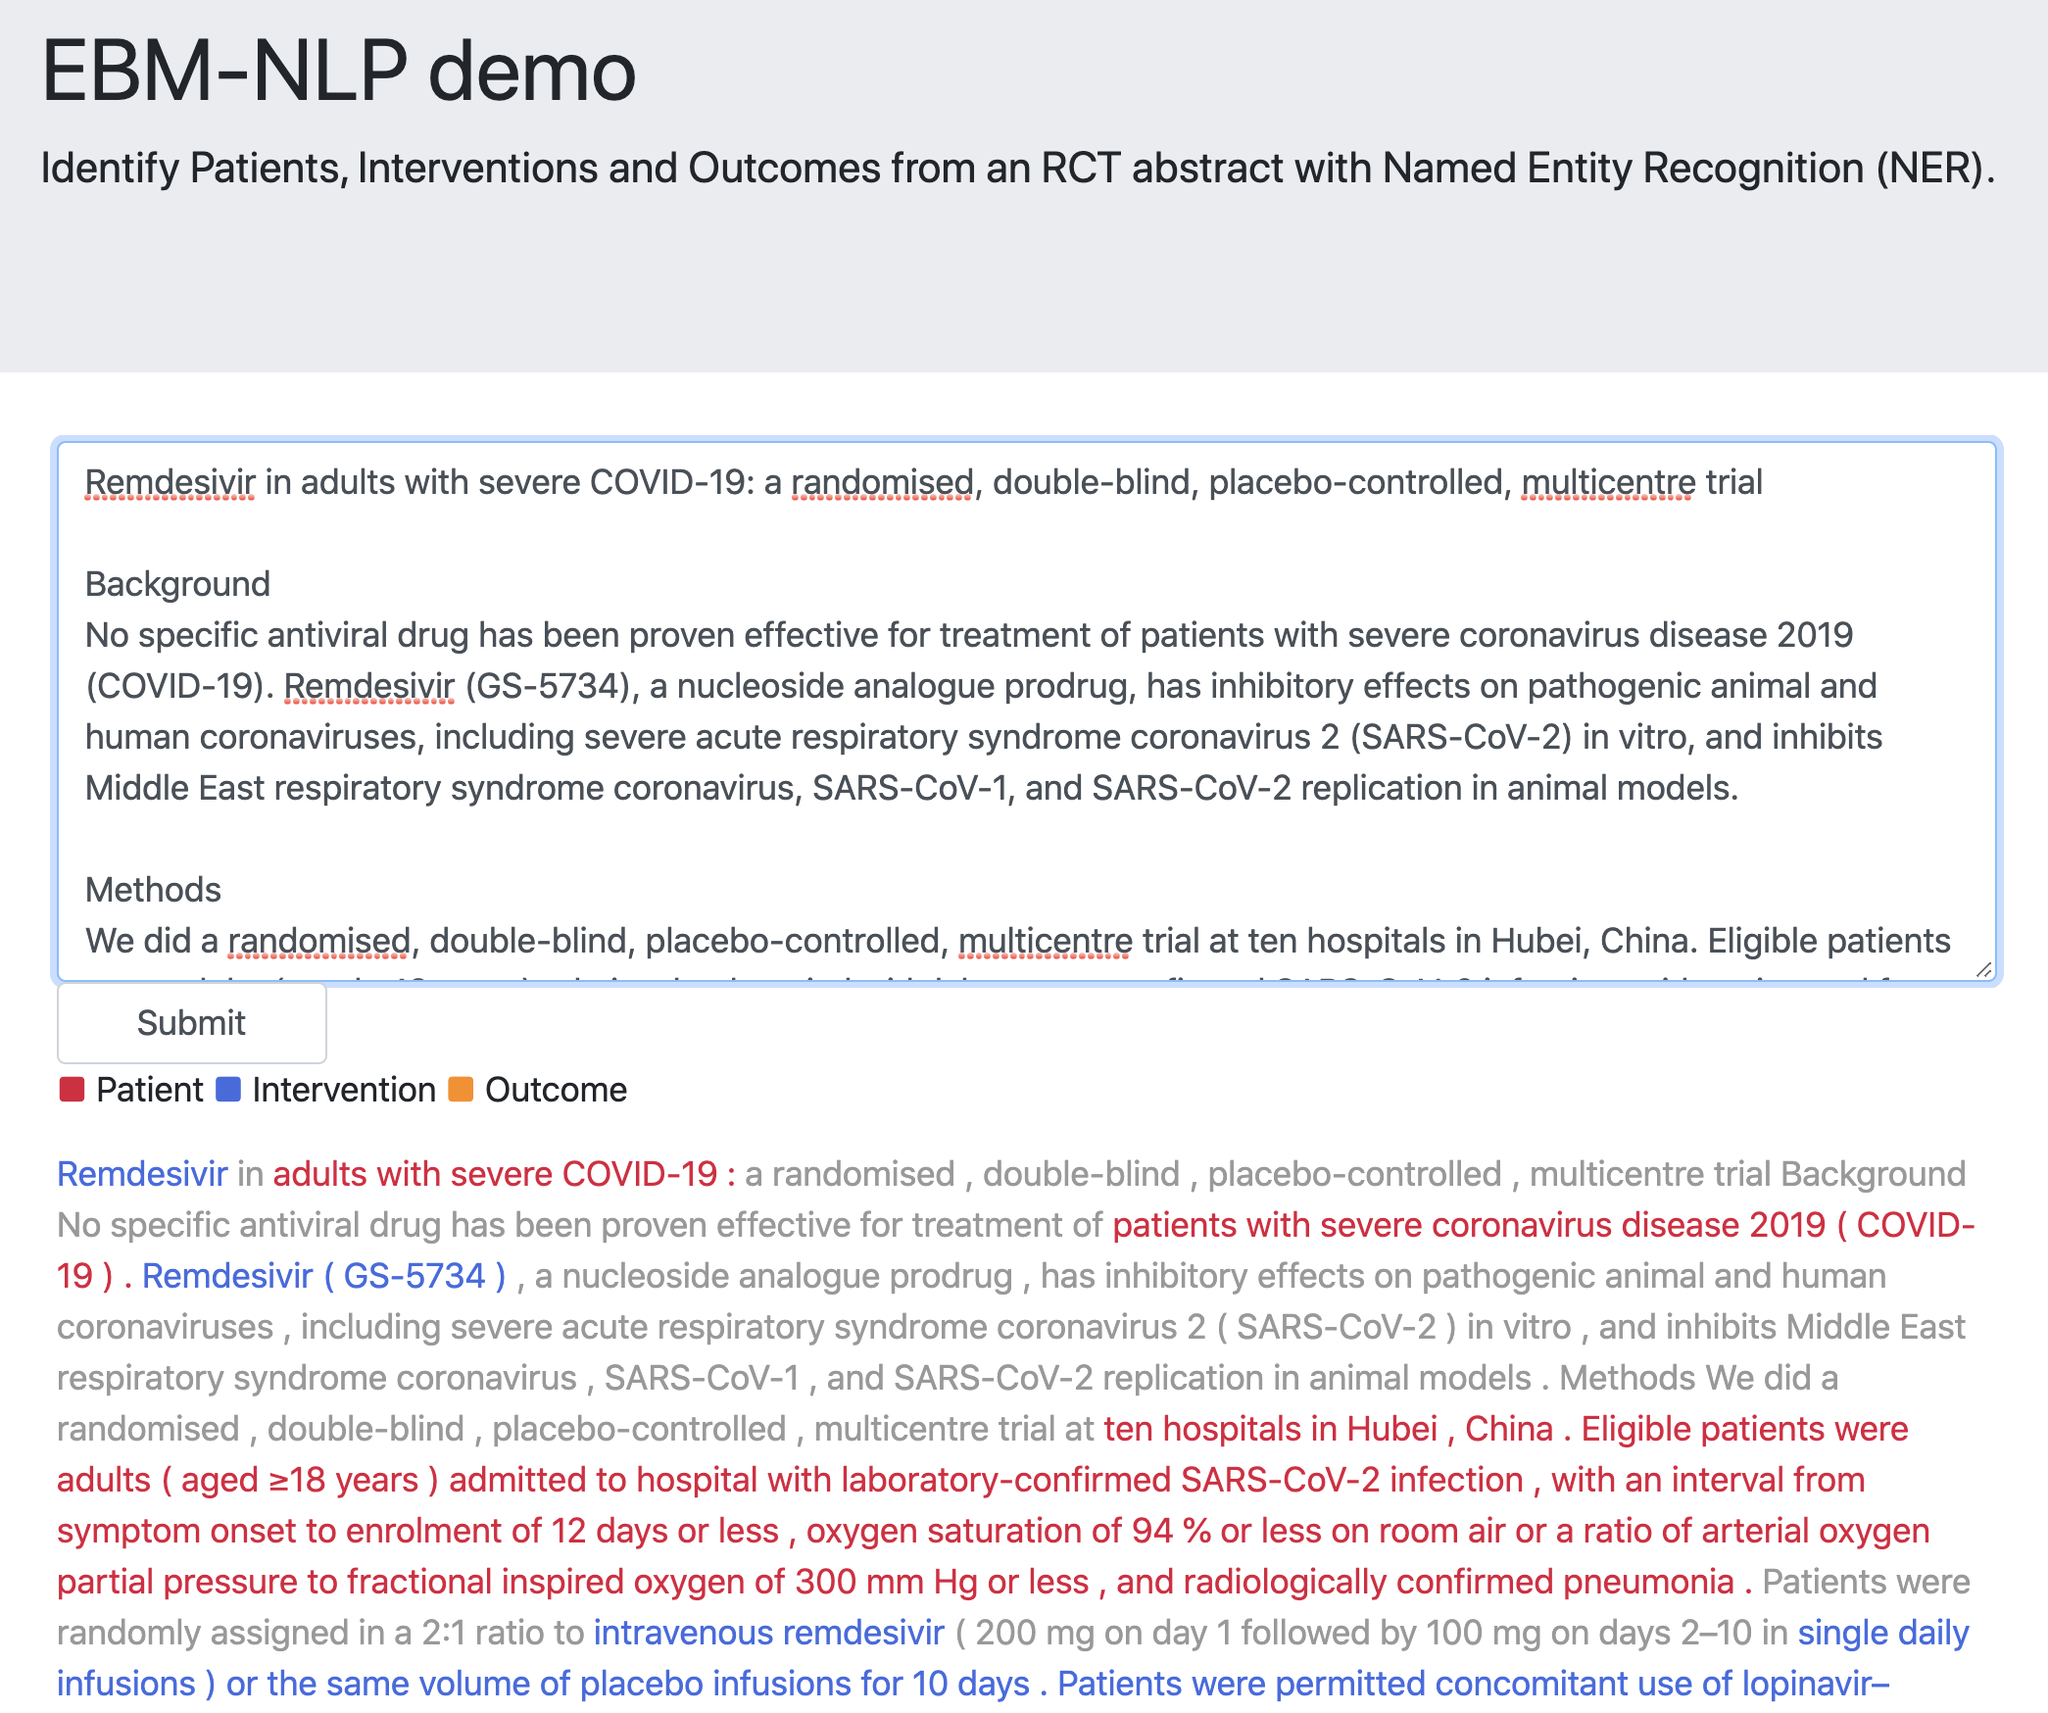
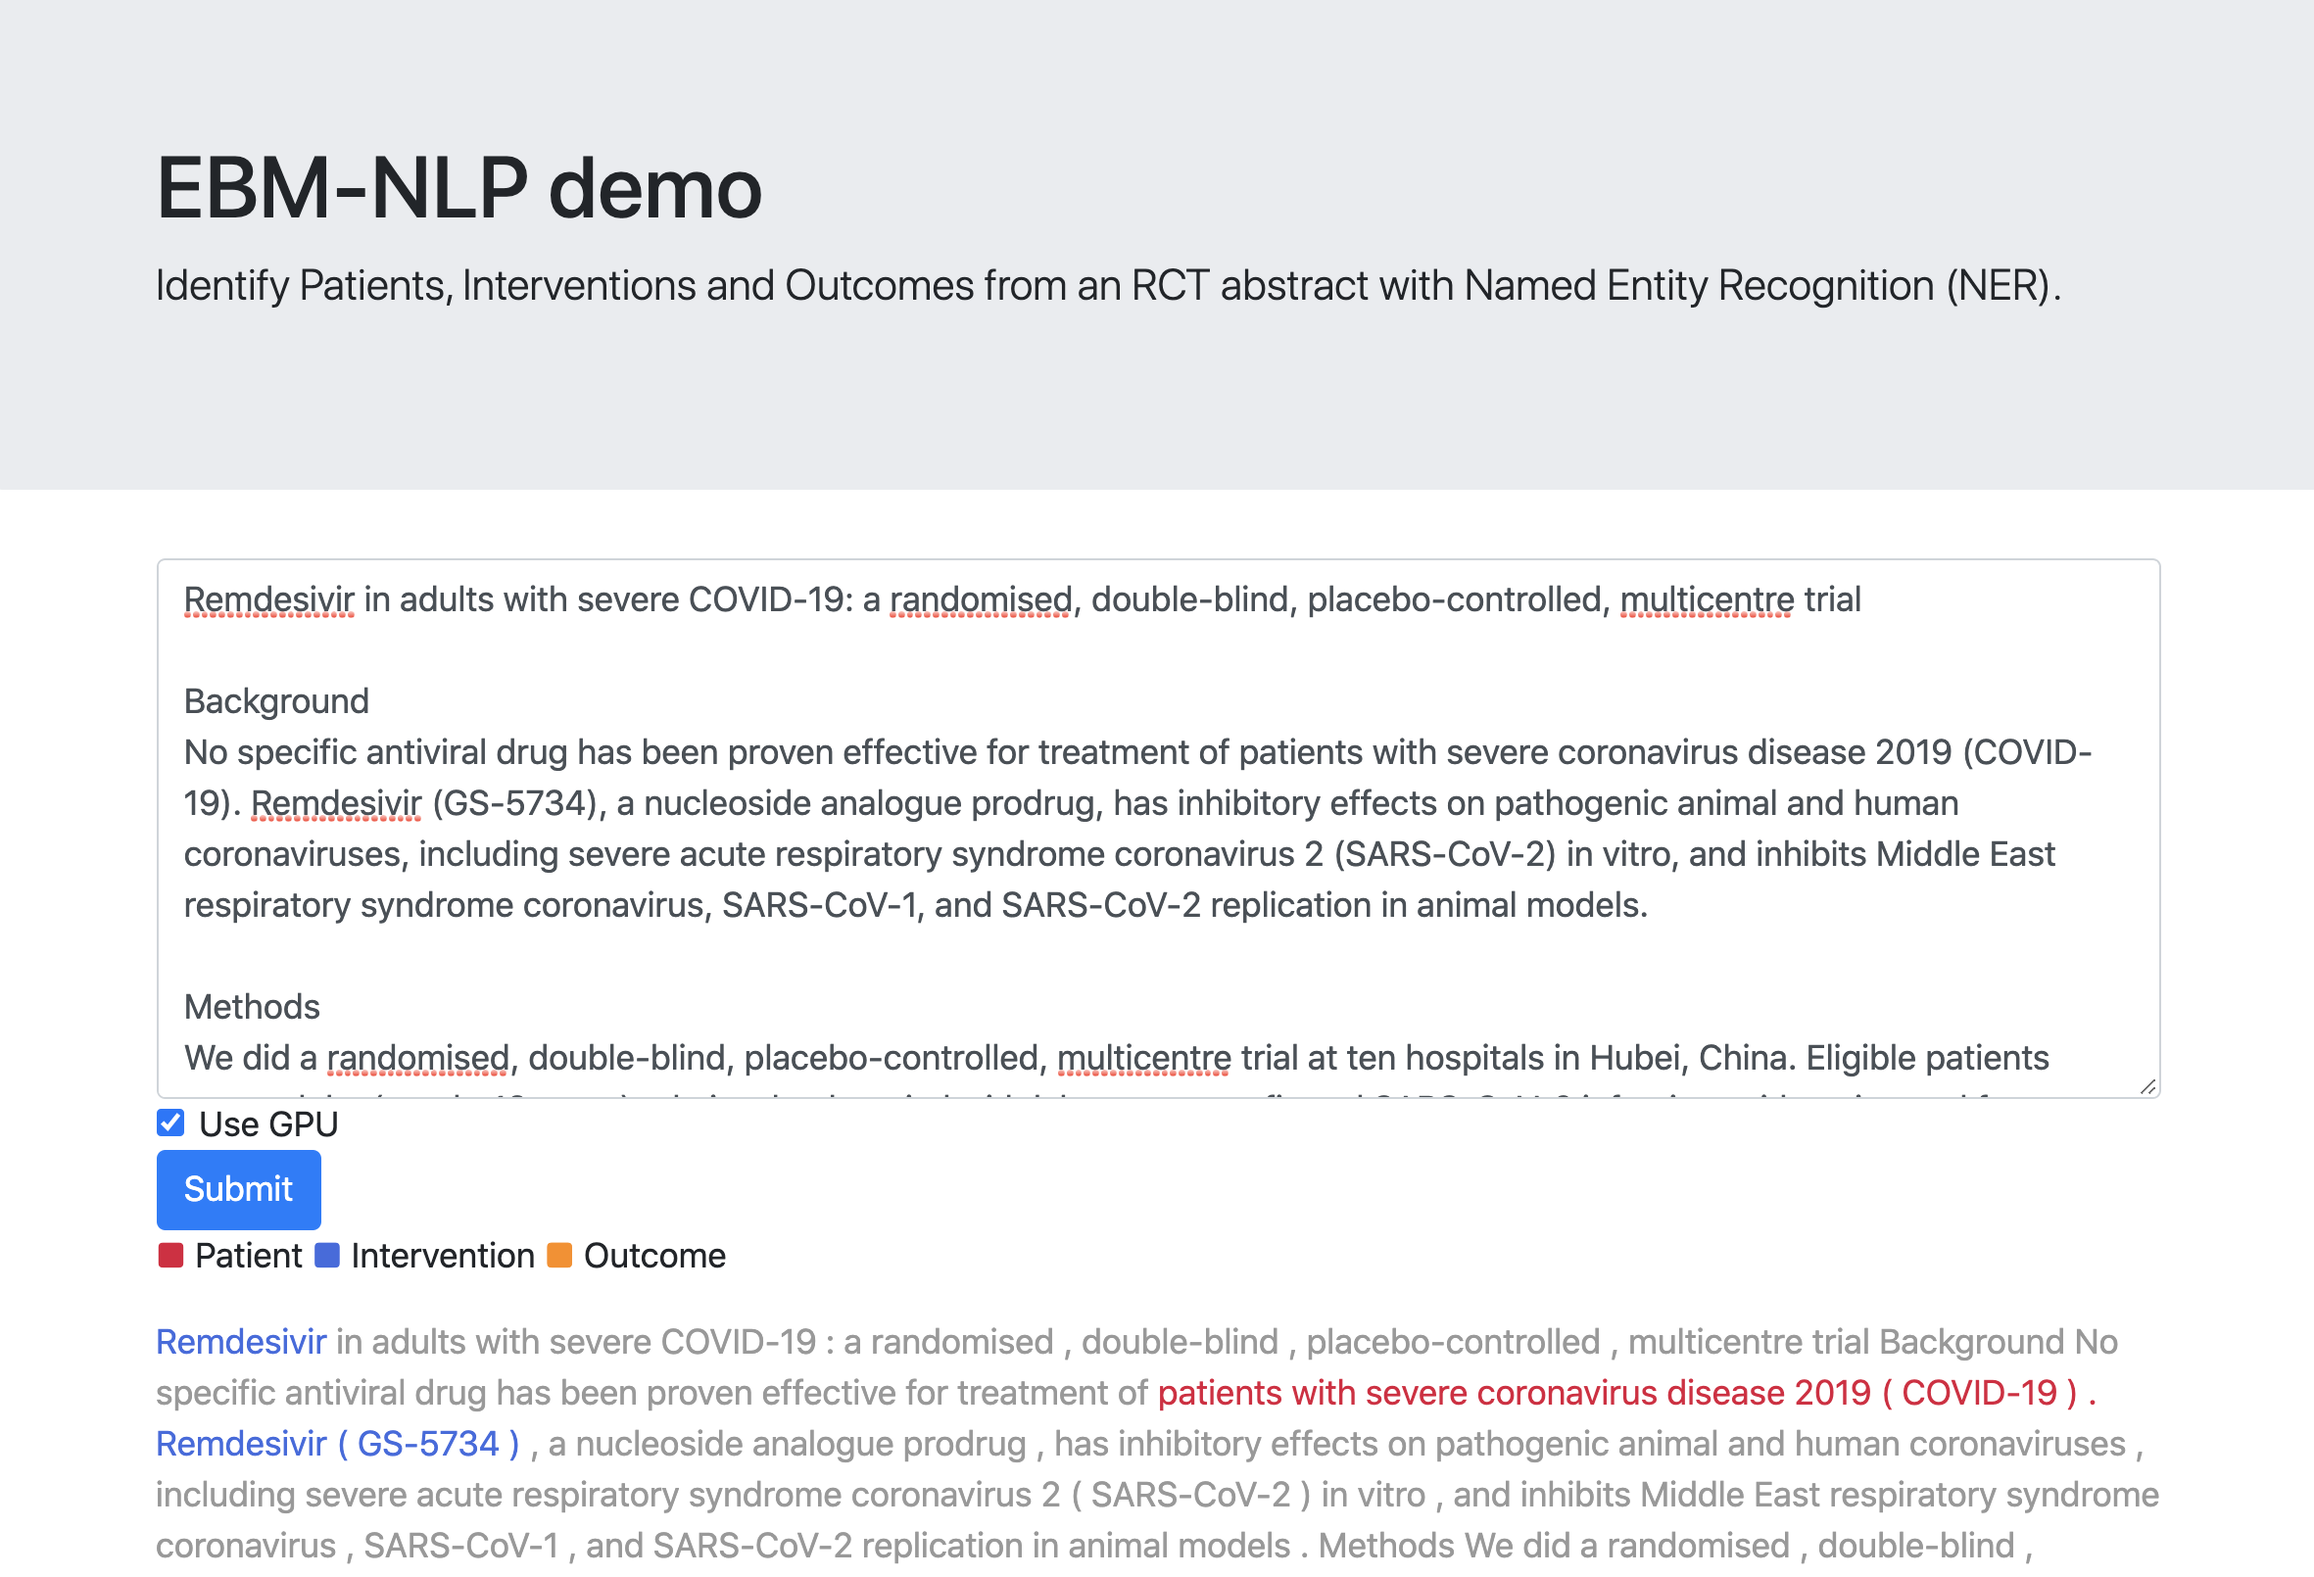
Updated png & better layout

Changed region(s): [[0.0, 0.2484, 0.9952, 0.9938], [0.0311, 0.0932, 0.9641, 0.1863], [0.0, 0.0, 0.311, 0.0621]]

diff --git a/templates/sample.html b/templates/sample.html
@@ -17,10 +17,8 @@
 
     <div class="container">
       <form class="form-horizontal" method="POST", action="/predict">
-        <div class="col-xs-12 col-sm-12 col-md-12 col-lg-12">
-          <textarea class="form-control" name="abstract" rows="10" placeholder="Input an RCT abstract"></textarea>
-        </div>
-        <div class="col-xs-2 col-sm-2 col-md-2 col-lg-2">
+        <textarea class="form-control" name="abstract" rows="10" placeholder="Input an RCT abstract"></textarea>
+        <div class="form-check">
           {% if cuda_is_available %}
             <input class="form-check-input" name="use_cuda" value="True" id="use_cuda" type="checkbox"/ checked="checked">
             <label class="form-check-label" for="use_cuda">Use GPU</label>
@@ -29,31 +27,33 @@
             <label class="form-check-label" for="use_cuda">Use GPU</label>
           {% endif %}
         </div>
-        <div class="col-xs-2 col-sm-2 col-md-2 col-lg-2">
+        <div class="">
           <input class="btn btn-primary" value="Submit" type="submit"/>
         </div>
       </form>
+    </div>
  
-      <div class="col-xs-12 col-sm-12 col-md-12 col-lg-12"> 
+    <div class="container">
+      {% if show_legend %}
         <p>
           <span style='color:#dc143c'>■</span> Patient
           <span style='color:#4169e1'>■</span> Intervention
           <span style='color:#ff8c00'>■</span> Outcome
         </p>
-        <p>
-          {% for tag in tagging %}
-            {% if tag[0] == 'O' %}
-              <span style='color:#999999'>{{ tag[1] }}</span>
-            {% elif tag[0] == 'I-P' %}
-              <span style='color:#dc143c'>{{ tag[1] }}</span>
-            {% elif tag[0] == 'I-I' %}
-              <span style='color:#4169e1'>{{ tag[1] }}</span>
-            {% elif tag[0] == 'I-O' %}
-              <span style='color:#ff8c00'>{{ tag[1] }}</span>
-            {% endif %}
-          {% endfor %}
-        </p>
-      </div>
+      {% endif %}
+      <p>
+        {% for tag in tagging %}
+          {% if tag[0] == 'O' %}
+            <span style='color:#999999'>{{ tag[1] }}</span>
+          {% elif tag[0] == 'I-P' %}
+            <span style='color:#dc143c'>{{ tag[1] }}</span>
+          {% elif tag[0] == 'I-I' %}
+            <span style='color:#4169e1'>{{ tag[1] }}</span>
+          {% elif tag[0] == 'I-O' %}
+            <span style='color:#ff8c00'>{{ tag[1] }}</span>
+          {% endif %}
+        {% endfor %}
+      </p>
     </div>
     <script src="https://code.jquery.com/jquery-3.5.1.slim.min.js" integrity="sha384-DfXdz2htPH0lsSSs5nCTpuj/zy4C+OGpamoFVy38MVBnE+IbbVYUew+OrCXaRkfj" crossorigin="anonymous"></script>
     <script src="https://cdn.jsdelivr.net/npm/popper.js@1.16.0/dist/umd/popper.min.js" integrity="sha384-Q6E9RHvbIyZFJoft+2mJbHaEWldlvI9IOYy5n3zV9zzTtmI3UksdQRVvoxMfooAo" crossorigin="anonymous"></script>

diff --git a/app.py b/app.py
@@ -9,7 +9,7 @@ EBMNLP_BIOELMO_CRF_CHECKPOINT_PATH = './models/ebmnlp_bioelmo_crf/ebmnlp_bioelmo
 
 @app.route('/')
 def form():
-    return render_template('sample.html', cuda_is_available=torch.cuda.is_available())
+    return render_template('sample.html', cuda_is_available=torch.cuda.is_available(), show_legend=False)
 
 @app.route('/predict', methods=['POST'])
 def predict():
@@ -25,4 +25,4 @@ def predict():
     tokens = nltk.word_tokenize(abstract)
     tags = ebmnlp.unpack_pred_tags(ebmnlp.forward([tokens]))
     tagging = [(tag, token) for tag, token in zip(tags[0], tokens)]
-    return render_template('sample.html', tagging=tagging, cuda_is_available=torch.cuda.is_available())
+    return render_template('sample.html', tagging=tagging, cuda_is_available=torch.cuda.is_available(), show_legend=True)
